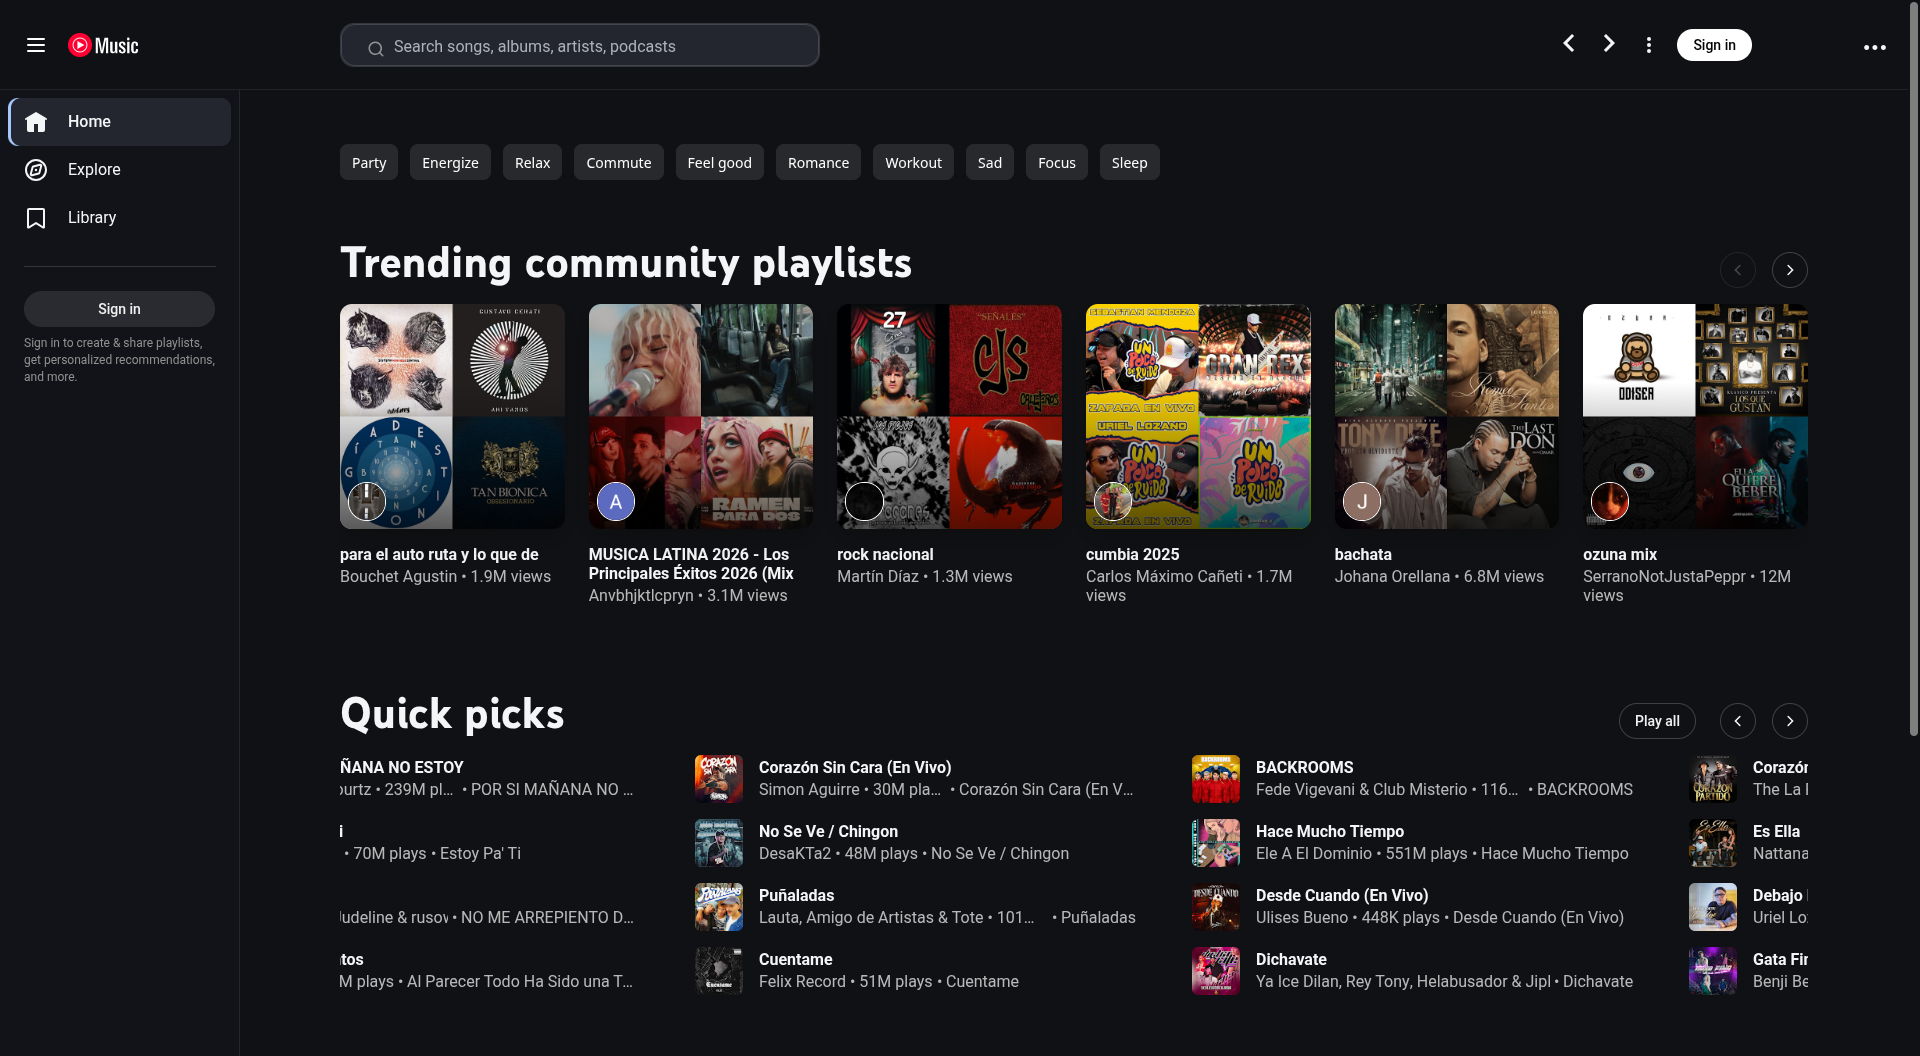
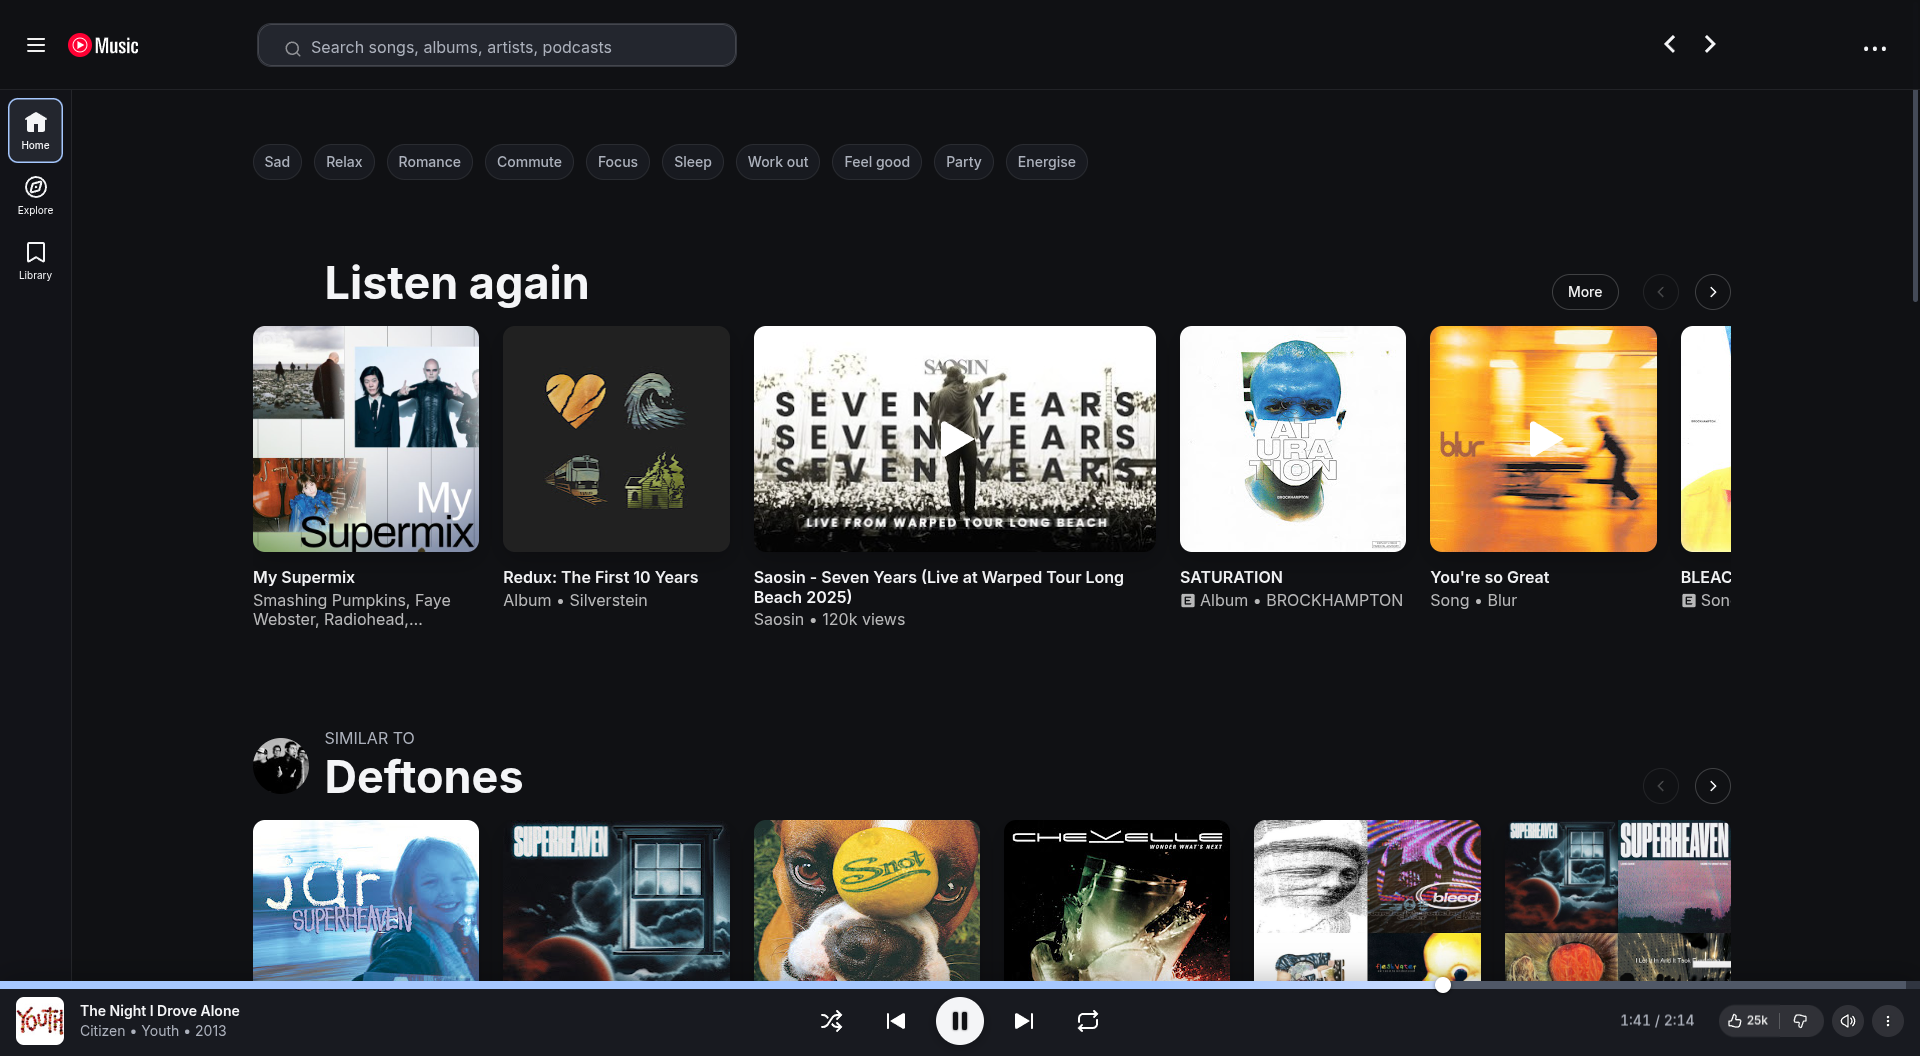
Polish theme controls and typography; refresh screenshots

diff --git a/themes/pear-dark.css b/themes/pear-dark.css
@@ -2,6 +2,7 @@
 :root,
 html,
 ytmusic-app {
+  --pear-font: "Inter", "Noto Sans", sans-serif;
   --pear-bg: #101114;
   --pear-panel: #181a20;
   --pear-raised: #23262e;
@@ -27,8 +28,15 @@ body,
 ytmusic-app {
   background: var(--pear-bg) !important;
   color: var(--pear-text) !important;
-  font-family: "Noto Sans", sans-serif !important;
+  font-family: var(--pear-font) !important;
   -webkit-font-smoothing: antialiased;
+}
+/* YouTube Music sets font families on individual text components. */
+ytmusic-app :is(yt-formatted-string, yt-attributed-string, tp-yt-paper-item,
+  button, input, textarea, h1, h2, h3, h4, p, a),
+ytmusic-miniplayer [class*="TrackInfo"],
+ytmusic-miniplayer [class*="TimeInfo"] {
+  font-family: var(--pear-font) !important;
 }
 ytmusic-app-layout #nav-bar-background,
 ytmusic-nav-bar {
@@ -150,10 +158,39 @@ ytmusic-guide-entry-renderer tp-yt-paper-item {
 }
 ytmusic-guide-entry-renderer[active] tp-yt-paper-item {
   background: var(--pear-raised) !important;
-  box-shadow: inset 3px 0 var(--pear-accent);
+  box-shadow: inset 0 0 0 1.5px var(--pear-accent);
 }
 ytmusic-guide-entry-renderer:hover tp-yt-paper-item {
   background: rgba(255, 255, 255, 0.06) !important;
+}
+/* Rounded category filters with a distinct selected state. */
+ytmusic-chip-cloud-chip-renderer:not([chip-style="STYLE_TRANSPARENT"]) a {
+  height: 36px !important;
+  border-radius: 999px !important;
+  background: var(--pear-panel) !important;
+  color: var(--pear-muted) !important;
+  box-shadow: inset 0 0 0 1px var(--pear-border);
+  font-weight: 500 !important;
+  transition: background-color 140ms ease, color 140ms ease, box-shadow 140ms ease;
+}
+ytmusic-chip-cloud-chip-renderer:not([chip-style="STYLE_TRANSPARENT"]) a:hover {
+  background: var(--pear-raised) !important;
+  color: var(--pear-text) !important;
+  box-shadow: inset 0 0 0 1px rgba(166, 200, 255, 0.35);
+}
+ytmusic-chip-cloud-chip-renderer:not([chip-style="STYLE_TRANSPARENT"])[is-selected] a {
+  background: rgba(166, 200, 255, 0.14) !important;
+  color: var(--pear-accent) !important;
+  box-shadow: inset 0 0 0 1px var(--pear-accent);
+}
+ytmusic-chip-cloud-chip-renderer a:focus-visible {
+  outline: 2px solid var(--pear-accent) !important;
+  outline-offset: 2px !important;
+}
+@media (prefers-reduced-motion: reduce) {
+  ytmusic-chip-cloud-chip-renderer a {
+    transition: none !important;
+  }
 }
 ytmusic-player-page {
   background: radial-gradient(ellipse at 35% 35%, #20242e 0%, #101114 70%) !important;

diff --git a/themes/progress-bar.css b/themes/progress-bar.css
@@ -1,10 +1,11 @@
 /* Larger seek bar for the YTM miniplayer. Keep the native progress gradient. */
 ytmusic-miniplayer .ytMusicMiniPlayerProgressBarWrapper {
+  /* Center the enlarged seek target on the player's top edge. */
+  transform: translateY(-50%) !important;
   height: 28px !important;
   padding: 0 !important;
   display: flex !important;
   align-items: center !important;
-  z-index: 20 !important;
 }
 
 ytmusic-miniplayer input.ytMusicMiniPlayerProgressBar {

diff --git a/README.md b/README.md
@@ -3,21 +3,24 @@
 A dark theme for [Pear Desktop](https://github.com/pear-devs/pear-desktop).
 
 - Uniform dark backgrounds and rounded artwork
+- Rounded navigation outlines and pill-shaped category filters
+- Inter typography, with Noto Sans and system sans-serif fallbacks
 - More space around the queue and lyrics
-- Larger seek bar with an always-visible thumb
+- Larger seek bar with an always-visible thumb, aligned with the player
+- Volume popup stays above the seek bar
 - Three-dot app menu in the YouTube Music header on Linux
 
 ## Screenshots
 
-Home screen with dark backgrounds and rounded artwork:
+Home screen with rounded navigation, category filters, and Inter typography:
 
 ![Pear Dark Theme home screen](docs/screenshots/home.png)
 
-Player and queue:
+Player and queue with the seek bar aligned to the player:
 
 ![Pear Dark Theme player and queue](docs/screenshots/player.png)
 
-Captured on Linux with Pear Desktop 3.12.0, without signing in.
+Captured on Linux with Pear Desktop 3.12.0. Account details are hidden.
 
 ## Install
 
@@ -32,6 +35,10 @@ python3 install.py
 You can also download and extract the [ZIP](https://github.com/Insthic/pear-dark-theme/archive/refs/heads/main.zip). On Windows, use `py install.py`.
 
 Reopen Pear after installation.
+
+For the typography shown in the screenshots, install Inter locally. The theme falls back to Noto Sans or the system sans-serif font when Inter is unavailable; it does not download fonts.
+
+To update an existing installation, download or pull the latest theme, quit Pear completely, run `python3 install.py` again, and reopen Pear.
 
 ### Installer options
 
